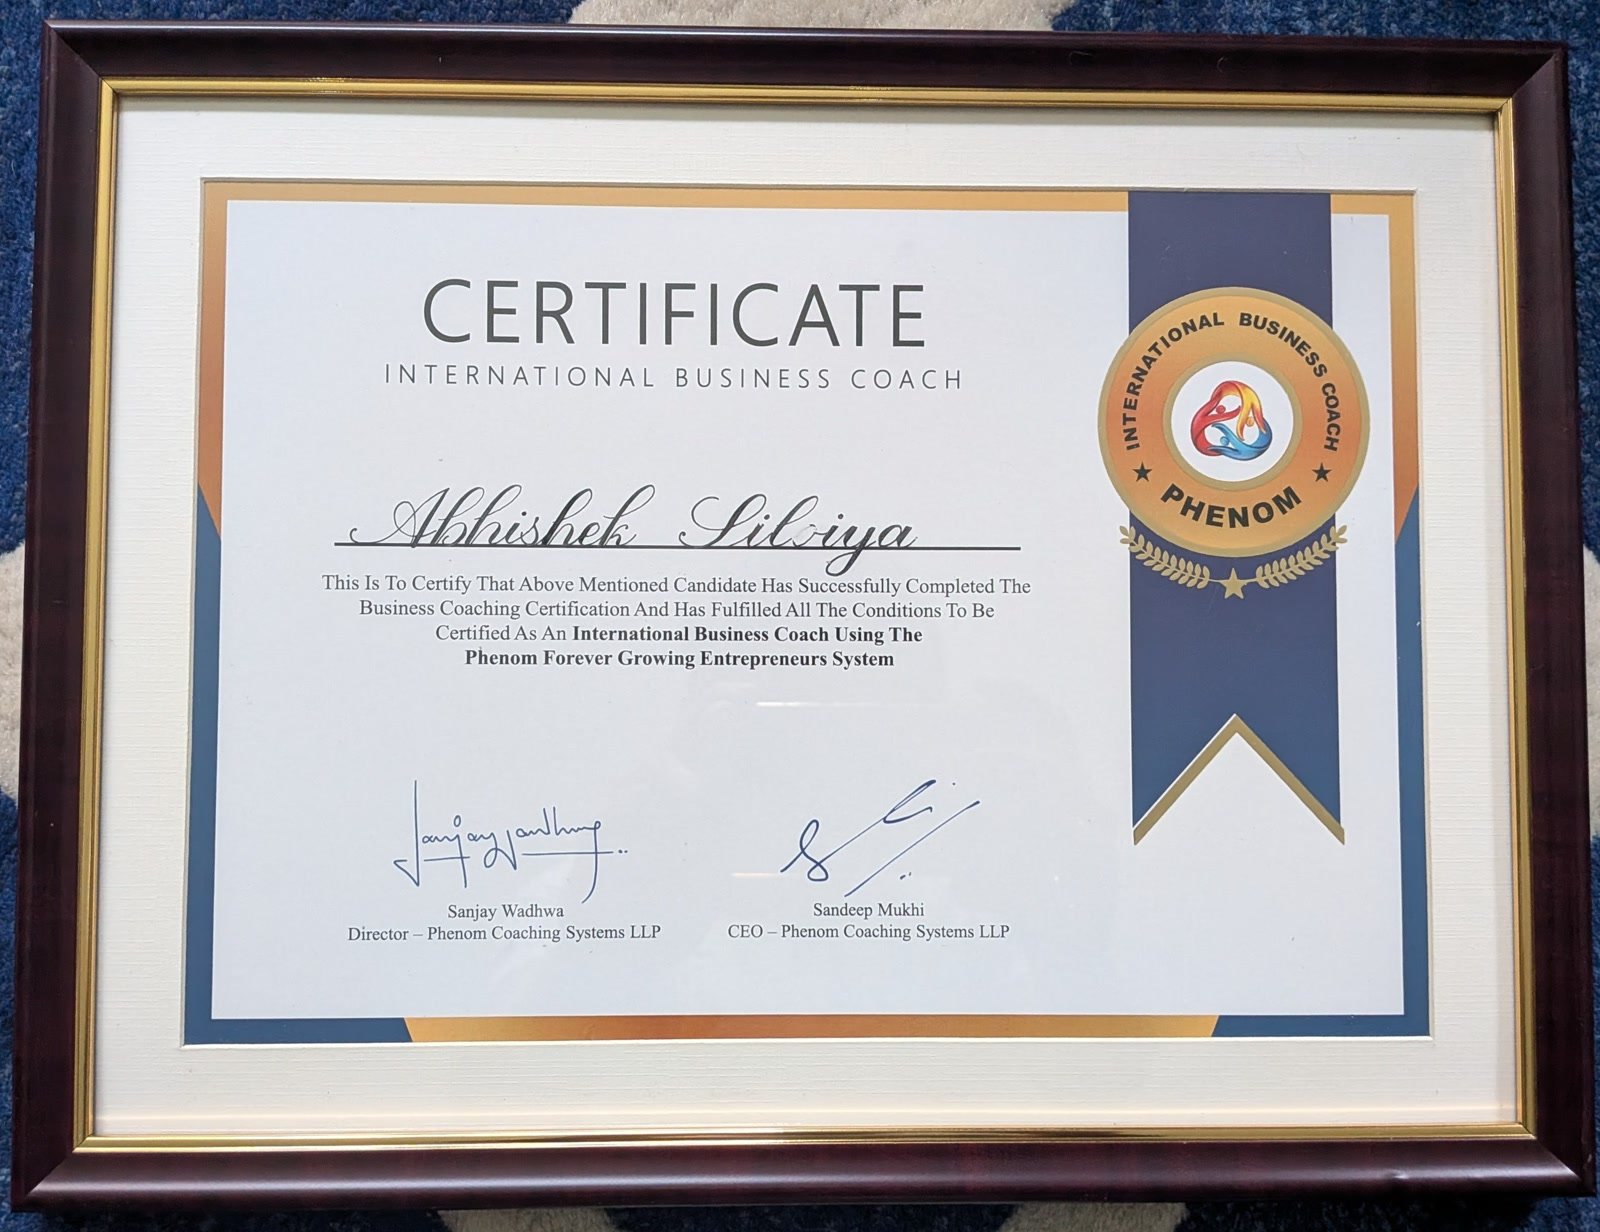
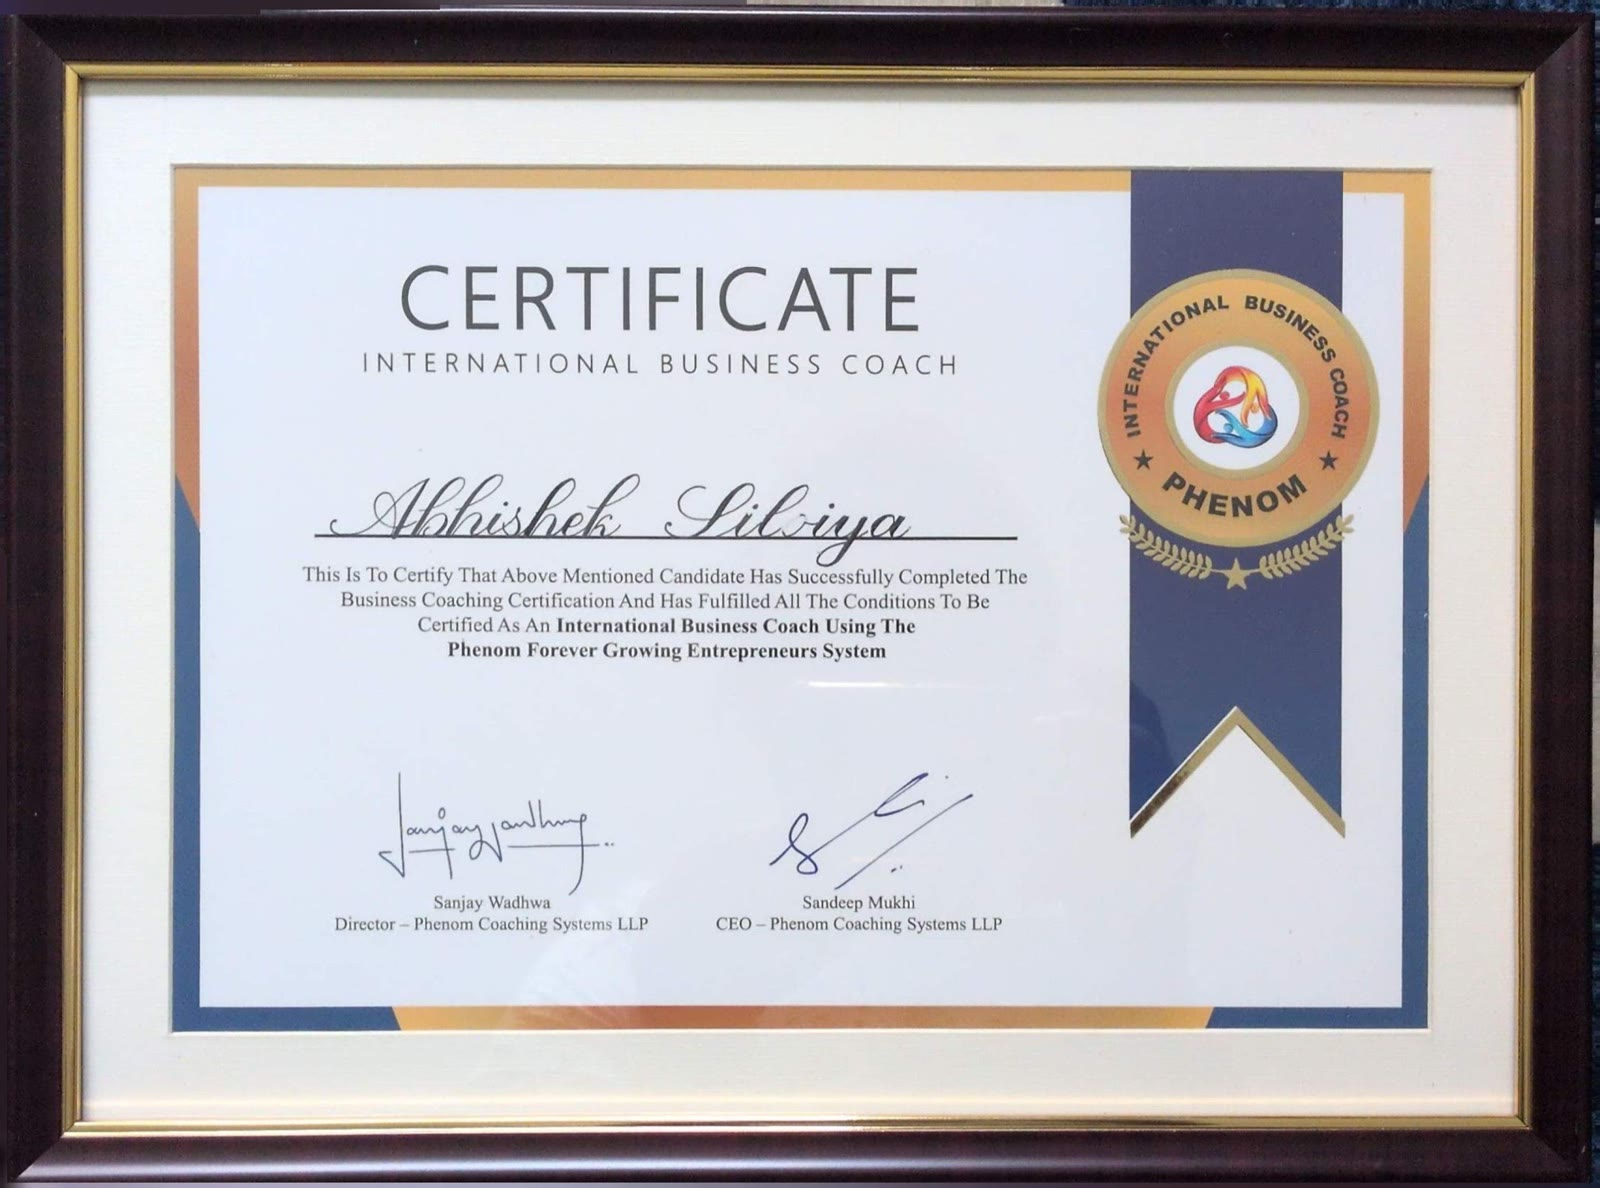
fix: use approved Phenom certificate image

diff --git a/about.html b/about.html
@@ -22,7 +22,7 @@
   <link rel="apple-touch-icon" href="assets/apple-touch-icon.png">
   <link rel="preload" href="assets/manrope-latin-variable.woff2" as="font" type="font/woff2" crossorigin>
   <link rel="preload" href="assets/newsreader-latin-variable.woff2" as="font" type="font/woff2" crossorigin>
-  <link rel="stylesheet" href="assets/review.css?v=25">
+  <link rel="stylesheet" href="assets/review.css?v=26">
   <title>About Aabhishek Siloya | Global Business Coach</title>
 </head>
 <body class="about-page">
@@ -36,7 +36,7 @@
 
     <section class="about-coaching" id="why-coaching" aria-labelledby="coaching-title"><div class="shell">
       <div class="two-col about-coaching-lead"><header class="section-title" data-reveal><p class="kicker">Formation and standards</p><h2 id="coaching-title">How I developed the coaching practice.</h2></header><div class="prose coaching-position" data-reveal><p>Business experience is one part of the work. My certification and continuing one-to-one mentoring focus on how I listen, question and help another person think without taking over the decision.</p><a class="text-action" href="letter.html">How I work with you →</a></div></div>
-      <div class="formation-feature" data-reveal><div><p class="kicker">01 · Phenom Coaching Systems</p><h3>The formal foundation.</h3><p>I completed my business-coaching certification through Phenom. It gave me a formal structure for listening closely, asking better questions and holding a useful line of challenge.</p></div><figure class="certificate-display certificate-display--phenom"><a class="certificate-preview certificate-preview--phenom" href="assets/credentials/phenom-international-business-coach.pdf" target="_blank" rel="noopener" aria-label="View the full Phenom International Business Coach certificate (opens in a new tab)"><img src="assets/credentials/phenom-international-business-coach.jpg" alt="Phenom International Business Coach certificate awarded to Aabhishek Siloya" width="1600" height="1232" loading="lazy" decoding="async"></a><figcaption><span>International Business Coach · Phenom</span><a href="assets/credentials/phenom-international-business-coach.pdf" target="_blank" rel="noopener">View certificate ↗</a></figcaption></figure></div>
+      <div class="formation-feature" data-reveal><div><p class="kicker">01 · Phenom Coaching Systems</p><h3>The formal foundation.</h3><p>I completed my business-coaching certification through Phenom. It gave me a formal structure for listening closely, asking better questions and holding a useful line of challenge.</p></div><figure class="certificate-display certificate-display--phenom"><a class="certificate-preview certificate-preview--phenom" href="assets/credentials/phenom-international-business-coach.pdf" target="_blank" rel="noopener" aria-label="View the full Phenom International Business Coach certificate (opens in a new tab)"><img src="assets/credentials/phenom-international-business-coach.jpg" alt="Phenom International Business Coach certificate awarded to Aabhishek Siloya" width="1600" height="1188" loading="lazy" decoding="async"></a><figcaption><span>International Business Coach · Phenom</span><a href="assets/credentials/phenom-international-business-coach.pdf" target="_blank" rel="noopener">View certificate ↗</a></figcaption></figure></div>
       <div class="mentor-register" aria-label="Coaching guides and mentor">
         <article class="mentor-row" data-reveal><img class="mentor-portrait" src="assets/mentors/sanjay-wadhwa.jpg" alt="Sanjay Wadhwa" width="80" height="80" loading="lazy"><h3><a href="https://www.linkedin.com/in/sanjaywadhwa/">Sanjay Wadhwa ↗</a></h3><p>Sanjay has been the principal influence in my development as a coach. His guidance reaches beyond coaching practice into the personal discipline, judgement and self-awareness the work asks of me. I continue to work with him one-to-one.</p></article>
         <article class="mentor-row" data-reveal><img class="mentor-portrait" src="assets/mentors/sandeep-mukhi.jpg" alt="Sandeep Mukhi" width="80" height="80" loading="lazy"><h3><a href="https://www.linkedin.com/in/sandeepmukhi/">Sandeep Mukhi ↗</a></h3><p>Sandeep guided my coaching development through Phenom and continues to mentor me one-to-one. That work continues as I put the training into practice.</p></article>

diff --git a/assets/review.css b/assets/review.css
@@ -652,7 +652,7 @@ body :focus-visible{outline:2px solid var(--bronze);outline-offset:5px}
 .certificate-display{margin:0;max-width:510px;width:100%;justify-self:end;border:1px solid var(--line)}
 .certificate-preview{display:block;overflow:hidden;aspect-ratio:1080/766;background:#1b2235}
 .certificate-preview img{display:block;width:100%;height:100%;object-fit:cover;object-position:center 46.8%}
-.certificate-preview--phenom{aspect-ratio:1600/1232;background:var(--paper)}
+.certificate-preview--phenom{aspect-ratio:1600/1188;background:var(--paper)}
 .certificate-preview--phenom img{object-fit:contain;object-position:center}
 .certificate-display figcaption{display:flex;flex-wrap:wrap;justify-content:space-between;gap:8px;padding:12px 14px;font-size:10px;line-height:1.6;color:var(--muted)}
 .certificate-display figcaption a{text-decoration:underline;text-underline-offset:4px;color:var(--ink)}
